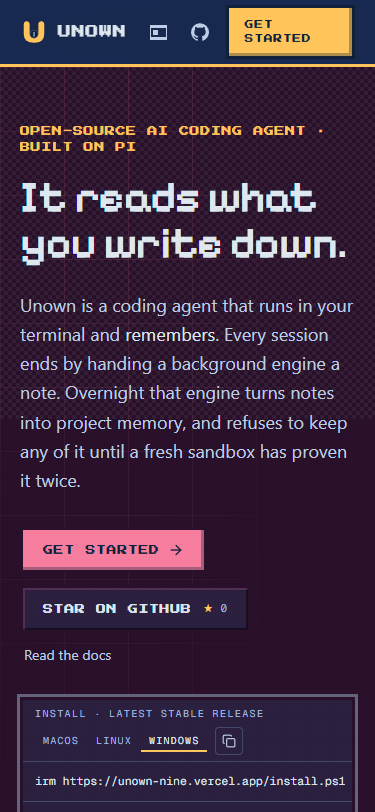
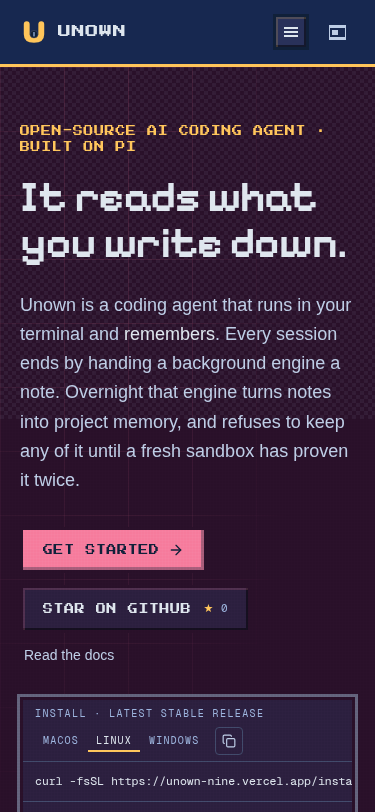
docs: catch the docs up to the affordance round — OG shots rebaked, three AGENTS.md attribution fixes, the doctor 401 row in resilience
- regenerate public/landing/landing-{hero,full,mobile}.png against the
  new build (landing_og_shots.mjs, palette asserted): the mobile shot
  photographs the pre-menu header and both full/mobile predate the FAQ
  cursor — the contract says the tracked screenshots go stale the
  moment the chrome they photograph moves
- layout.tsx names only landing-hero.png + the TUI dashboard still in
  its OpenGraph set (true since 8328d54); three AGENTS.md files claimed
  full/mobile were named in the metadata — reworded to 'tracked
  screenshots the same script keeps current, not named by the metadata'
- docs/resilience.md: the doctor engine-row table gains the 401 outcome
  ('up but rejected this CLI's token', warn-class, UNOWN_ENGINE_TOKEN
  fix) that landed in troubleshooting.md with 7ee808c — the failure-mode
  playbook now enumerates every engine row again
- src/AGENTS.md: drop the stale 'the 79 landing tests' count (83 after
  the affordance round's four pins) — a test total is a timestamp, the
  band contract's own rule, so the number is not restated at all

Gates: check:docs, bun test src (83, 0 fail).

diff --git a/src/AGENTS.md b/src/AGENTS.md
@@ -13,7 +13,7 @@ The marketing landing page: a single Next.js 16 App Router route served at `/` a
 ## Local Contracts
 
 - `src/app/page.tsx` is **composition only** — every section lives in `src/components/landing/`, which owns its own contract doc (bands, palette usage, honesty rules, the generated data files). Section order in `page.tsx` is the page's argument; `NAV_LINKS` in `shell.tsx` mirrors the anchors.
-- `src/app/layout.tsx` loads the five fonts (Geist + Geist Mono for body, Press Start 2P / Pixelify Sans / VT323 for the retro chrome), owns the theme bootstrap and the OpenGraph metadata. Its OG image set names the tracked `public/landing/landing-*.png` screenshots AND `/landing/tui/dashboard/stills/01-overview.png` (a real TUI still — that file belongs to the `scripts/tui-capture/` lane, not to a landing screenshot script). There is no providers wrapper anymore: the Toaster mount and `DashboardProviders` left with the dashboard; the page wraps itself in `LandingMotion` (reduced-motion handling) inside `page.tsx`.
+- `src/app/layout.tsx` loads the five fonts (Geist + Geist Mono for body, Press Start 2P / Pixelify Sans / VT323 for the retro chrome), owns the theme bootstrap and the OpenGraph metadata. Its OG image set names the tracked `public/landing/landing-hero.png` screenshot AND `/landing/tui/dashboard/stills/01-overview.png` (a real TUI still — that file belongs to the `scripts/tui-capture/` lane, not to a landing screenshot script); `landing-full.png` / `landing-mobile.png` are tracked screenshots the same script keeps current but the metadata does not name. There is no providers wrapper anymore: the Toaster mount and `DashboardProviders` left with the dashboard; the page wraps itself in `LandingMotion` (reduced-motion handling) inside `page.tsx`.
 - The landing palette (`bg-canvas`, `bg-panel`, `text-ink`, `text-dim`, `border-line`, the accents `text-gold` / `text-gold-soft`, and the five section hues `gold|aqua|magma|leaf|psychic`, each with a `-field`) lives in `src/app/globals.css`, not in `landing.css` — Tailwind only resolves `@theme` in the file that pulls in `tailwindcss`. The tokens sit in a **non-inline** `@theme` block — Tailwind emits `var(--color-…)` for it, which is what lets the cascade repaint them at runtime — carrying the dark scheme as the `:root` default plus TWO light blocks that must stay identical (the `prefers-color-scheme` one and `[data-theme="light"]`); only the three font tokens are `@theme inline`. Theming is a `data-theme` attribute on `<html>` (plus `prefers-color-scheme` for the auto default), **not** a `.dark` class — never add `dark:` variants to landing markup.
 - `tailwind.config.ts` is deliberately absent: Tailwind CSS 4 is configured through the CSS (`@import "tailwindcss"` + `@theme` in `globals.css`). Do not reintroduce a JS config file.
 - Styling: Tailwind CSS 4 conventions, `cn()` from `src/lib/utils.ts` (clsx + tailwind-merge — the one runtime helper), `lucide-react` icons, `framer-motion` motion, `fuse.js` for the dex's search. No charting, no react-query, no zustand — those left with the dashboard; the page is a static marketing surface whose only network call is the wrapped star-count fetch.
@@ -31,7 +31,7 @@ The marketing landing page: a single Next.js 16 App Router route served at `/` a
 
 ## Verification
 
-- `bun run lint` (eslint + eslint-config-next) — must be clean; CI (`.github/workflows/ci.yml`) enforces lint (`Lint (landing)`), `bun run typecheck` (`Typecheck (landing)`), `bun test src` (`Unit tests (landing)`, the 79 landing tests) and the changed-line coverage gate on push/PR.
+- `bun run lint` (eslint + eslint-config-next) — must be clean; CI (`.github/workflows/ci.yml`) enforces lint (`Lint (landing)`), `bun run typecheck` (`Typecheck (landing)`), `bun test src` (`Unit tests (landing)` — the count moves with every pin, so it is not restated here) and the changed-line coverage gate on push/PR.
 - `bun run build` — exit 0; `/` must prerender, and the standalone server must answer 200 on `/` (CI's `Production build (landing)` job does exactly this smoke on a scratch port).
 - The e2e lane is landing-scoped: `e2e/a11y.spec.ts` (axe-core WCAG 2.0/2.1 A+AA, two motion passes) + `e2e/landing-budget.spec.ts` — 3 tests, run by CI's `E2E + a11y (landing)` job.
 - Landing work additionally requires a visual pass against a production build, a reduced-motion pass, and the palette gates — see `src/components/landing/AGENTS.md` (Verification) and `scripts/AGENTS.md`.

diff --git a/docs/resilience.md b/docs/resilience.md
@@ -83,6 +83,7 @@ Every engine row is ⚠-class — warnings affect learning features only, chat n
 | Doctor row | When | Detail line |
 |---|---|---|
 | `self-learning engine` | engine unreachable | `unreachable — learning paused, chat unaffected; notes queue in ~/.unown/notes/outbox (3 pending; start it: unown engine start)` |
+| `self-learning engine` | engine up, rejects this CLI's token (a binary install talking to a source-repo engine — the CLI reads its OWN data dir's `engine.token`) | `up but rejected this CLI's token — learning paused, chat unaffected; point UNOWN_ENGINE_TOKEN at the ENGINE's data/self-learning/engine.token (binary and source installs keep different data dirs)` |
 | `engine auto-start` | circuit gave up | `gave up after 5 failed start(s) — inspect .run/engine.log; then: unown engine repair (corrupt DB?) or unown engine start (resets the circuit)` |
 | `engine auto-start` | backing off between tries | `2 recent attempt(s) — backing off between tries (normal after failures)` — a pass, not a warning |
 | `engine router` | wedged but alive | `busy mutex held 2400s on 'auto-dream' — past 2x the job timeout; restart the engine` |

diff --git a/src/components/landing/AGENTS.md b/src/components/landing/AGENTS.md
@@ -977,9 +977,12 @@ parallel ones.
   re-run both scripts before shipping it** — and note that the `color-mix` card
   blends are invisible to the static gate, which is exactly why the browser
   audit is not redundant.
-- `public/landing/landing-{hero,full,mobile}.png` are the OpenGraph images
-  `layout.tsx` names, and they are tracked screenshots of this page — so they go
-  stale the moment the palette moves. Regenerate with
+- `public/landing/landing-{hero,full,mobile}.png` are tracked screenshots
+  of this page, kept current by the same script — `layout.tsx` NAMES only
+  `landing-hero.png` (plus the TUI dashboard still) in its OpenGraph set;
+  `landing-full.png` / `landing-mobile.png` ship as tracked artifacts without
+  being named in the metadata. They go stale the moment the palette — or the
+  chrome they photograph — moves. Regenerate with
   `bun scripts/landing_og_shots.mjs` against the production build; it asserts
   `--color-canvas` resolved to the dark scheme's hex before each shot, so it
   cannot silently re-bake an old palette. `layout.tsx` also names

diff --git a/scripts/AGENTS.md b/scripts/AGENTS.md
@@ -185,9 +185,11 @@ The lifecycle scripts are cross-platform bun TypeScript (`install.ts`, `link.ts`
     `localStorage.unown-theme` agree at every step; checks a forced choice
     survives reload (the inline `<head>` bootstrap's job) and the `aria-label`
     announces state. Same `LANDING_SHOTS_URL` base URL; non-zero on failure.
-  - `landing_og_shots.mjs` — regenerates the TRACKED OpenGraph images in
+  - `landing_og_shots.mjs` — regenerates the TRACKED screenshots in
     `public/landing/` (`landing-hero.png`, `landing-full.png`,
-    `landing-mobile.png`) that `layout.tsx` names. These are screenshots of the
+    `landing-mobile.png`); `layout.tsx` names only `landing-hero.png` (plus a
+    TUI dashboard still) in its OpenGraph metadata — full/mobile are kept
+    current as tracked artifacts. These are screenshots of the
     landing page, so they go stale the moment its palette moves. Runs against
     the production standalone server like the other three, asserts
     `--color-canvas` resolved to the dark scheme's hex before each shot (so it
